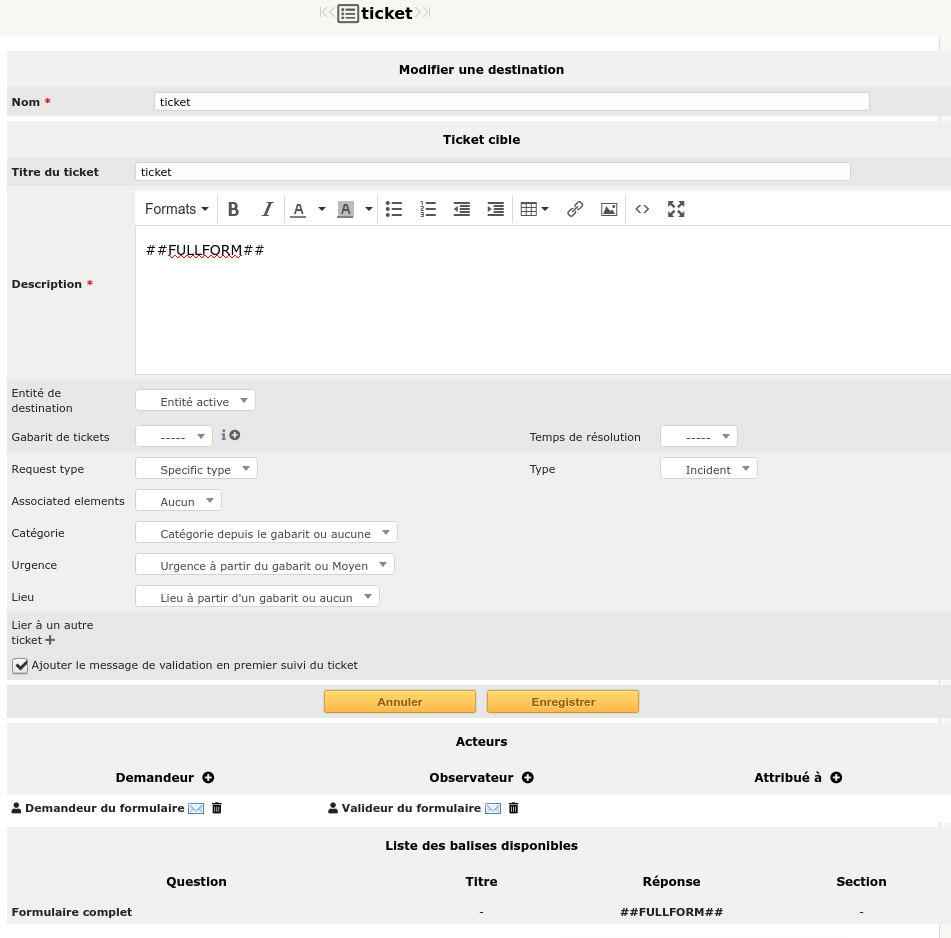
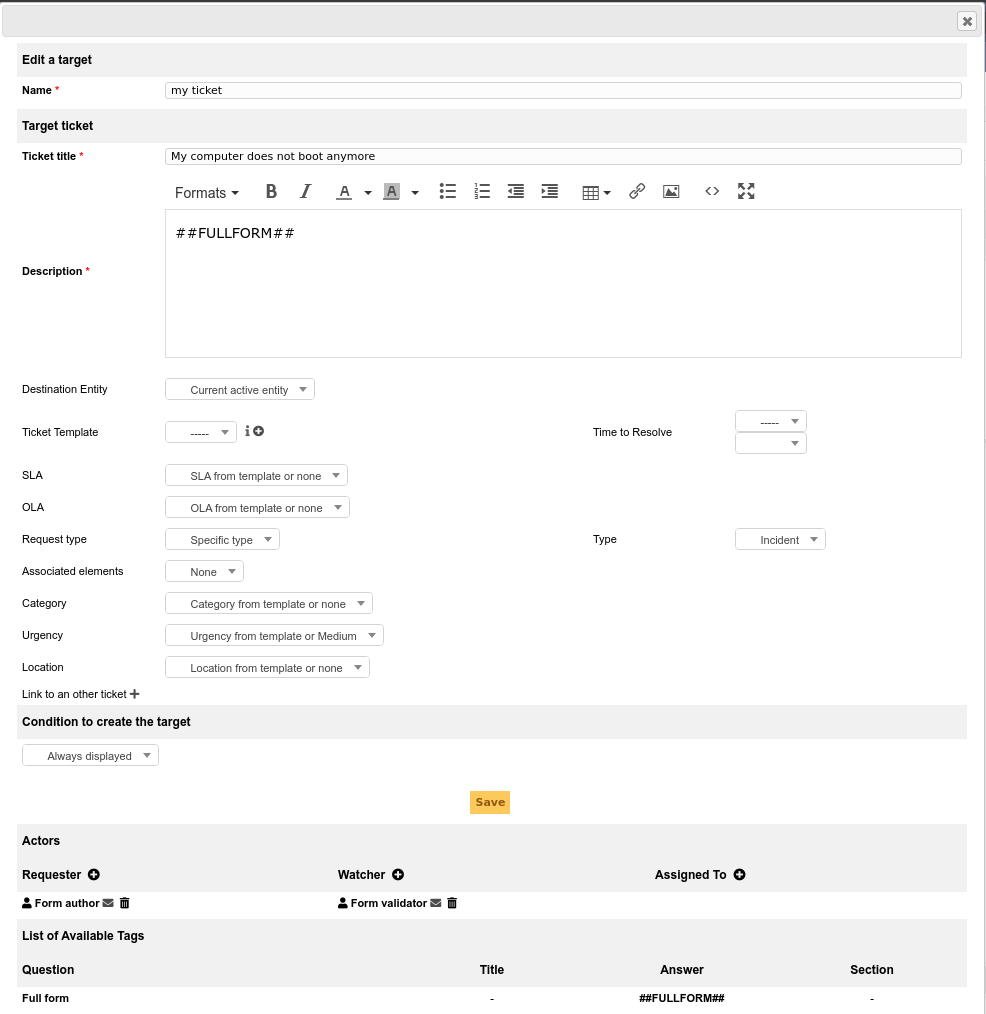
update formcreator documentation for version 2.11 (#53)
* update formcreator documentation

* update with new features of 2.11.0

* feat(formcreator): documentation for translation

* fix(formcreator): typo

* feat(formcreator): update target change picture

* Update source/formcreator/targets.rst

diff --git a/source/formcreator/configuration.rst b/source/formcreator/configuration.rst
@@ -69,18 +69,20 @@ The following page displays:
 .. image:: images/add_question_form.png
 
 A question is made of:
+
 * a title: this is the label of the question in the form.
 * a type: see list below.
 * a section: the section containing the question. You can move a question to an other section with this field.
 * a description; it is displayed under the question in the form. Use it as a hint for the requester, telling him which content is expected.
-* a dropdown list **Show field**
+* a dropdown list **Show field** to enable a condition
 
  .. image:: images/show_field.png
 
 
 It submits the following choices:
+
 * **Always visible**: the field is always displays
-* **Hidden unless*: The question is hidden except if answers to other questions matches a condition.
+* **Hidden unless**: The question is hidden except if answers to other questions matches a condition.
 * **Displayed unless**: The question is displayed except if the answers to other questions matches a condition.
 
 Conditions may be multiple. To add or remove a condition two buttons are available:
@@ -94,6 +96,7 @@ Conditions may be multiple. To add or remove a condition two buttons are availab
  .. image:: images/question_picto_mandatory.png
 
  , or optional
+
  .. image:: images/question_picto_optional.png
 
  * **Arrow up** and **arrow down** allow you to r eorder questions in a section.
@@ -210,6 +213,11 @@ Multiselect (multiple choice)
 
 This field allows you to create a dropdown list with ability to select multiple items. Values are added one per line in the field **Values**. You may set default values, one per line in *Default values**. If no default value is set then no item will selected by default.
 
+Request type
+^^^^^^^^^^^^
+
+This field is a dropdown with "Incident" or "Demand" choices. It can be used to set the request type of a ticket being generated by the form.
+
 Radio buttons (one choice only)
 ^^^^^^^^^^^^^^^^^^^^^^^^^^^^^^^
 
@@ -247,6 +255,34 @@ Urgency
 
 This field allows you to select an urgency defined in GLPI.
 
+Conditions
+----------
+
+Conditions are expressions involving questions and sections which are evaluated in order to determine
+
+* if a question is displayed
+* if a section is displayed
+* if the submit button of a form is displayed
+* if a target (see below) must be generated
+
+Available operators in an assertion are:
+
+* equals
+* not equals
+* less than
+* greater than
+* less than or equal
+* greater  than or equal
+* is visible
+* is not visible
+* matches a regular expression
+
+The condition expression can be used with the following rules:
+
+* **Hidden unless**: the item is hidden or not generated except when the expression is true
+* **Displayed unless**: the item is displayed or generated except when the expression is true
+
+
 Access types
 ------------
 
@@ -255,6 +291,10 @@ Three values are available:
 * **Public access**: Anonymous users may access the form; you may use it in an intranet.
 * **Private access**: Users having a GLPI account may access the form.
 * **Restricted access**: Only users having the specified profiles may access the form.
+
+When a form is set to **Public access** it is possible to enable a simple captcha. This captcha should prevent spamming if a form is accessible from internet.
+
+.. Note:: Captchas are not enabled by default on anonymous forms. Administrators need to enabled them explicitly depending on how the form may be accessible from an hostile network such Internet.
 
 Targets
 -------
@@ -338,3 +378,26 @@ Additional optioins may be displayed depending on the currently selected questio
 If validation of the input is desired, it can be implemented following `PHP Regular Expressions <http://php.net/manual/reference.pcre.pattern.syntax.php>`_.
 
 If you want to show or hide questions depending on the answers of other questions, use the *show fields* area when editing a question. In the version 2.5.0 you may use more complex expressions checking for the content of several questions, and use logic operator **OR** and **AND**. The precedence of boolean operators applies, meaning that **AND** has precedence over **OR**.
+
+Translation
+-----------
+
+In some cases a form should be available in several languages. Choose first in which language a form should be created. This language should be english (US or UK) or the language that most of target users understand. This is the fallback language if no alternative is found.
+
+This language is also used as reference in the translation process. Then be sure that the choosen langauge us readable by the user who will translate the form.
+
+To translate a form open the tab **Form languages**, then create all languages you need to provide to users.
+
+.. image:: images/translation_add_language.png
+
+Choose a language added to the form and click it to begin or resume translation, then select the tab **Translations**. Click the button **New translation** and a popup dialog will open and show a string to translate. Type the translation, and click save or validate with **Enter** on your keyboard.
+
+.. image:: images/translation_string_translation.png
+
+If an other string must be translated, it will show immediately. If no more string needs to be transalted, a message will show instead.
+
+.. image:: images/translation_no_more_string.png
+
+When you close the dialog the list of translated strings is refreshed. You can edit a translatin by clicking on it, delete one or several translations with the checkboxes on the left of the list and the **Delete** button**. You can also filter the list with the filter input box.
+
+.. image:: images/translation_string_list.png

diff --git a/source/formcreator/service_catalog.rst b/source/formcreator/service_catalog.rst
@@ -19,9 +19,14 @@ Users using the simplified interface will benefit a new interface allowing them 
 
 Users using the extended interface have a more complete view on their requests.
 
-Forms with `Direct access on homepage` enabled and `FAQ items` in the `Knowledge base` will will appear in the interface. Users may search by browsing the categories on the left of the screen, and may also search for forms or FAQ with a natural language search engine.
+Forms with `Direct access on homepage` enabled will appear in the interface. Users may search by browsing the categories on the left of the screen, and may also search for forms with a natural language search engine.
 
-FAQ items needs to be associated to knowledge base categories. The knowledge base categories must be associated to form categories (available in `Setup > Dropdowns : Forms > Form categories`) to show their content.
+By default FAQ items in the Knowledge Base also show with forms. The only prerequisite is to associate form categories to knowledge base categories (in `Setup > Dropdowns : Forms > Form categories`).
+
+It is possible th have a distinct display of FAQ in `Administration > Entities > Forms`. When **Distinct menu entry** is selected the service catalog shows a new menu entry on the left. FAQ are browsable by category and key words.
+
+.. note::
+    All entity settings for Formcreator propagate to sub entities by default. The administrator may change the settings in a sub entities to break inheritance.
 
 Overview
 ^^^^^^^^
@@ -41,6 +46,9 @@ The request are spread over 4 counters
 * pending
 * to validate
 * closed
+
+.. Note::
+    New requests are not included in the counters.
 
 RSS feeds
 ^^^^^^^^^

diff --git a/source/formcreator/features.rst b/source/formcreator/features.rst
@@ -13,6 +13,7 @@ Features
 * Creation of one or more tickets from form answers,
 * Adding a description per fields, per sections, per forms, entities or languages,
 * Formatting the ticket set: answers to questions displayed, tickets templates,
-* Preview form created directly in the configuration.
+* Preview form created directly in the configuration,
+* Translation of forms to serve them in several languages.
 
 You can take an look to `the full changelog from plugin sources <https://github.com/pluginsGLPI/formcreator/blob/master/CHANGELOG.md>`_.

diff --git a/source/formcreator/targets.rst b/source/formcreator/targets.rst
@@ -106,7 +106,7 @@ Urgency
 Location
 """"""""
 
-* Location fro template or none: sets the location from a template if any and if this template has a predefined loation. None in all other cases,
+* Location from template or none: sets the location from a template if any and if this template has a predefined location. None in all other cases,
 * Specific location: a location set by the form's designer
 * Equals to the answer to a question: a category choosen by the requester,
 
